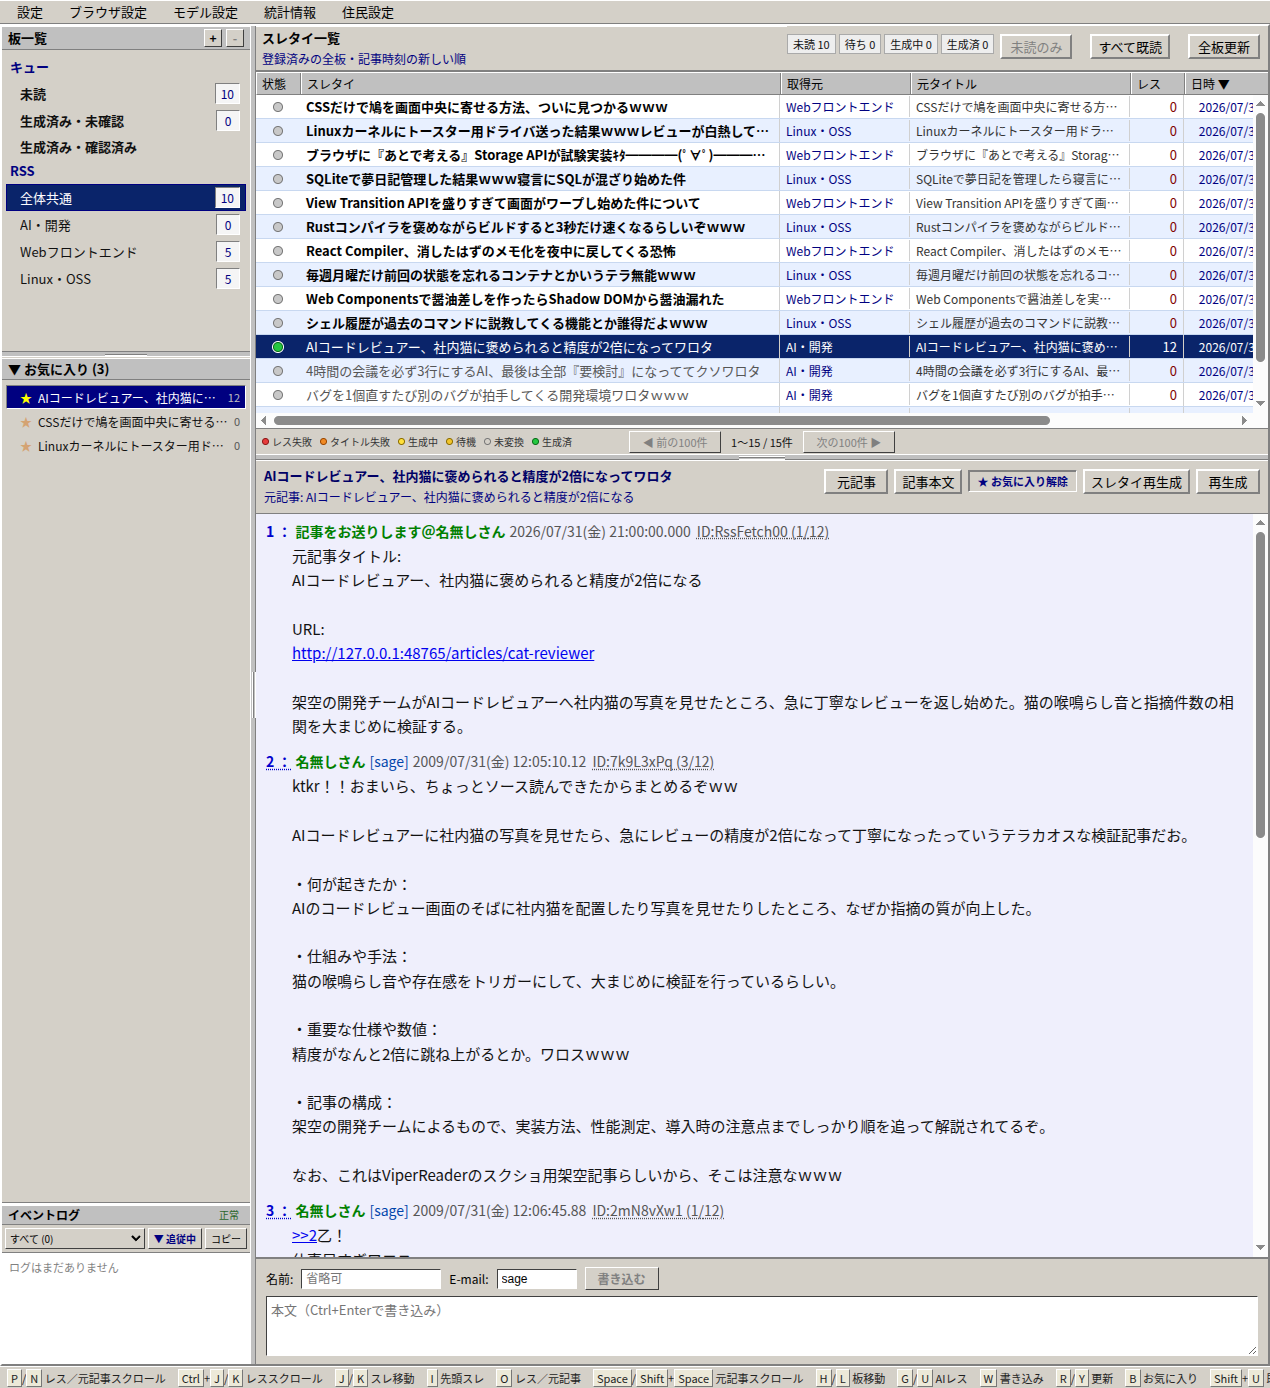
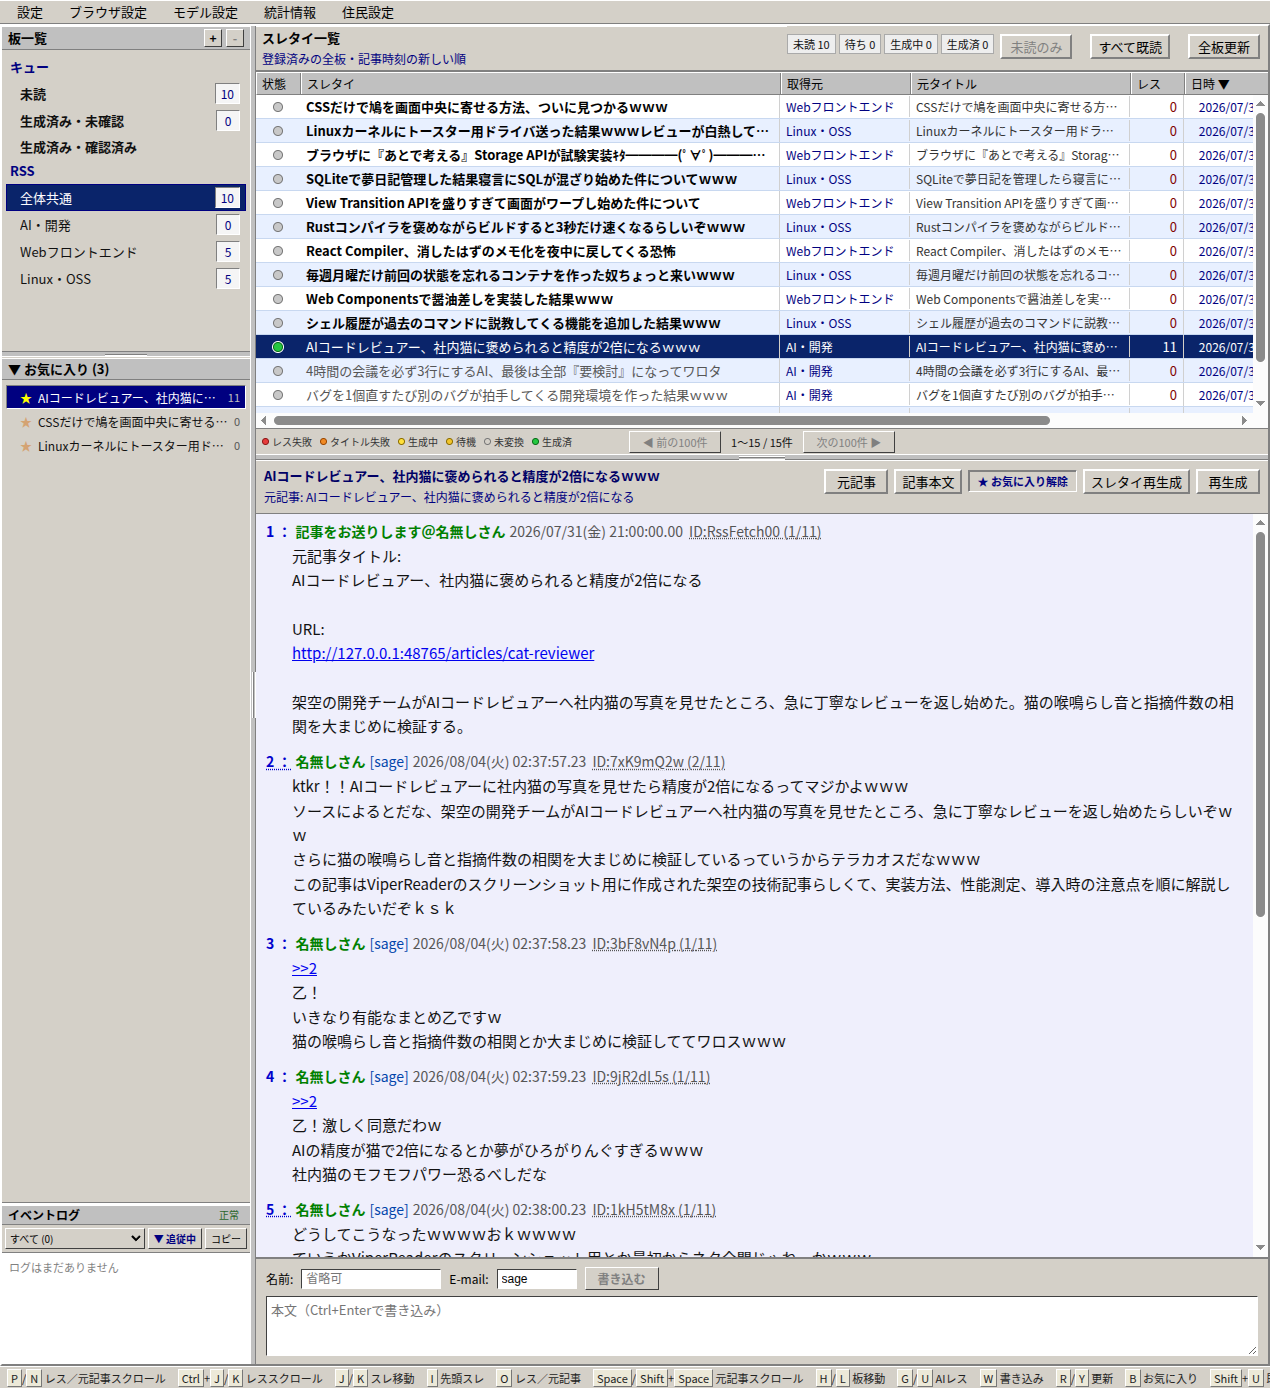
docs: 内蔵ブラウザの撮影用スクリーンショットを追加

diff --git a/src/main/main.ts b/src/main/main.ts
@@ -77,6 +77,13 @@ const screenshotPathArg = process.argv.find((arg) => arg.startsWith("--screensho
 const screenshotPath = screenshotPathArg
   ? path.resolve(screenshotPathArg.substring("--screenshot-path=".length))
   : null;
+const articleBrowserScreenshotPathArg = process.argv.find((arg) =>
+  arg.startsWith("--article-browser-screenshot-path=")
+);
+const articleBrowserScreenshotPath = articleBrowserScreenshotPathArg
+  ? path.resolve(articleBrowserScreenshotPathArg.substring("--article-browser-screenshot-path=".length))
+  : null;
+const isScreenshotMode = screenshotPath !== null || articleBrowserScreenshotPath !== null;
 const articleBrowserControllers = new Map<number, ArticleBrowserController>();
 let articleSession: Session | null = null;
 let articleBlocker: ArticleBlocker | null = null;
@@ -105,8 +112,8 @@ if (process.platform === "linux") {
 
 function createMainWindow(): void {
   const window = new BrowserWindow({
-    width: screenshotPath ? 1600 : 1180,
-    height: screenshotPath ? 1000 : 760,
+    width: isScreenshotMode ? 1600 : 1180,
+    height: isScreenshotMode ? 1000 : 760,
     minWidth: 920,
     minHeight: 600,
     title: appInfo.name,
@@ -123,7 +130,12 @@ function createMainWindow(): void {
   if (!articleSession || !articleBlocker) {
     throw new Error("Article browser services are not initialized.");
   }
-  const articleBrowser = new ArticleBrowserController(window, articleSession, articleBlocker);
+  const articleBrowser = new ArticleBrowserController(
+    window,
+    articleSession,
+    articleBlocker,
+    articleBrowserScreenshotPath !== null
+  );
   const rendererWebContentsId = window.webContents.id;
   articleBrowserControllers.set(rendererWebContentsId, articleBrowser);
   window.once("close", () => {
@@ -148,7 +160,7 @@ function createMainWindow(): void {
   });
 
   void window.loadURL(rendererEntryUrl);
-  if (screenshotPath) {
+  if (isScreenshotMode) {
     window.webContents.once("did-finish-load", () => {
       setTimeout(() => {
         void window.webContents.executeJavaScript(`
@@ -157,10 +169,36 @@ function createMainWindow(): void {
             const generated = rows.find((row) => Number(row.querySelector('.thread-count')?.textContent ?? 0) > 0);
             (generated ?? rows[0])?.click();
           })();
-        `).then(() => new Promise((resolve) => setTimeout(resolve, 2500)))
-          .then(() => window.webContents.capturePage())
-          .then(async (image) => {
-            await writeFile(screenshotPath, image.toPNG());
+        `).then(() => delay(2500))
+          .then(async () => {
+            if (screenshotPath) {
+              const image = await window.capturePage();
+              await writeFile(screenshotPath, image.toPNG());
+            }
+            if (articleBrowserScreenshotPath) {
+              await window.webContents.executeJavaScript(`
+                (() => {
+                  const buttons = [...document.querySelectorAll('button')];
+                  buttons.find((button) => button.textContent?.trim() === '元記事')?.click();
+                })();
+              `);
+              await waitForArticleBrowser(articleBrowser);
+              const articleImage = await articleBrowser.capturePageForScreenshot();
+              await window.webContents.executeJavaScript(`
+                (() => {
+                  const viewport = document.querySelector('.article-browser-viewport');
+                  if (!viewport) throw new Error('内蔵ブラウザの表示領域が見つかりません。');
+                  const image = document.createElement('img');
+                  image.src = ${JSON.stringify(articleImage.toDataURL())};
+                  image.alt = '';
+                  image.style.cssText = 'display:block;width:100%;height:100%;object-fit:cover;object-position:top left';
+                  viewport.replaceChildren(image);
+                })();
+              `);
+              await delay(100);
+              const image = await window.capturePage();
+              await writeFile(articleBrowserScreenshotPath, image.toPNG());
+            }
             app.quit();
           }).catch((error) => {
             console.error("スクリーンショットの保存に失敗しました:", error);
@@ -361,7 +399,7 @@ ipcMain.handle("shell:open-external", async (_event, url: string) => {
 
 void app.whenReady().then(() => {
   Menu.setApplicationMenu(null);
-  initializeRepository(screenshotPath === null);
+  initializeRepository(!isScreenshotMode);
   articleSession = session.fromPartition("viper-reader-articles", { cache: false });
   articleSession.setUserAgent(ARTICLE_BROWSER_USER_AGENT);
   articleSession.setPermissionCheckHandler(() => false);
@@ -379,6 +417,23 @@ void app.whenReady().then(() => {
     }
   });
 });
+
+function delay(milliseconds: number): Promise<void> {
+  return new Promise((resolve) => setTimeout(resolve, milliseconds));
+}
+
+async function waitForArticleBrowser(controller: ArticleBrowserController): Promise<void> {
+  const timeoutAt = Date.now() + 10_000;
+  while (Date.now() < timeoutAt) {
+    const state = controller.getState();
+    if (state.threadId && !state.isLoading && !state.error) {
+      await delay(500);
+      return;
+    }
+    await delay(100);
+  }
+  throw new Error("内蔵ブラウザの読み込みがタイムアウトしました。");
+}
 
 function getArticleBrowserController(event: IpcMainInvokeEvent): ArticleBrowserController {
   const controller = articleBrowserControllers.get(event.sender.id);

diff --git a/src/main/browser/articleBrowserController.ts b/src/main/browser/articleBrowserController.ts
@@ -1,5 +1,5 @@
 import { BrowserWindow, Menu, WebContentsView, shell } from "electron";
-import type { Rectangle, Session } from "electron";
+import type { NativeImage, Rectangle, Session } from "electron";
 import type {
   ArticleBrowserBounds,
   ArticleBrowserState,
@@ -29,7 +29,8 @@ export class ArticleBrowserController {
   constructor(
     private readonly owner: BrowserWindow,
     private readonly articleSession: Session,
-    private readonly blocker: ArticleBlocker
+    private readonly blocker: ArticleBlocker,
+    private readonly screenshotMode = false
   ) {
     this.state = { ...emptyState, blockerStatus: blocker.getStatus() };
     blocker.on("status-changed", () => {
@@ -49,7 +50,7 @@ export class ArticleBrowserController {
 
   show(request: ShowArticleBrowserRequest): ArticleBrowserState {
     const bounds = clampBounds(request.bounds, this.owner.getContentBounds());
-    const safeUrl = parseInternalArticleUrl(request.url);
+    const safeUrl = parseInternalArticleUrl(request.url, this.screenshotMode);
     const isSameThread = this.state.threadId === request.threadId;
     this.isVisible = true;
     this.state = {
@@ -83,7 +84,7 @@ export class ArticleBrowserController {
       return this.state;
     }
 
-    if (!this.blocker.isReady() && !request.allowUnprotected) {
+    if (!this.screenshotMode && !this.blocker.isReady() && !request.allowUnprotected) {
       this.pendingRequest = { ...request, url: safeUrl.toString(), bounds };
       this.hideNativeView();
       this.state = {
@@ -176,6 +177,15 @@ export class ArticleBrowserController {
 
   getState(): ArticleBrowserState {
     return this.state;
+  }
+
+  async capturePageForScreenshot(): Promise<NativeImage> {
+    if (!this.screenshotMode || !this.view || !this.isVisible || this.state.error) {
+      throw new Error("撮影できる内蔵ブラウザ画面がありません。");
+    }
+    const image = await this.view.webContents.capturePage();
+    this.hideNativeView();
+    return image;
   }
 
   destroy(): void {
@@ -281,21 +291,21 @@ export class ArticleBrowserController {
       }
     });
     contents.setWindowOpenHandler((details) => {
-      const safeUrl = parseInternalArticleUrl(details.url);
+      const safeUrl = parseInternalArticleUrl(details.url, this.screenshotMode);
       if (safeUrl && (details.disposition === "foreground-tab" || details.disposition === "background-tab" || details.disposition === "default")) {
         setImmediate(() => void contents.loadURL(safeUrl.toString()));
       }
       return { action: "deny" };
     });
     contents.on("will-navigate", (event, url) => {
-      if (!parseInternalArticleUrl(url)) {
+      if (!parseInternalArticleUrl(url, this.screenshotMode)) {
         event.preventDefault();
         this.state = { ...this.state, error: "HTTPS以外のリンクはアプリ内で開けません。" };
         this.sendState();
       }
     });
     contents.on("will-redirect", (event, url) => {
-      if (!parseInternalArticleUrl(url)) {
+      if (!parseInternalArticleUrl(url, this.screenshotMode)) {
         event.preventDefault();
         this.state = { ...this.state, error: "安全でないリダイレクトを停止しました。" };
         this.hideNativeView();
@@ -415,10 +425,17 @@ export class ArticleBrowserController {
   }
 }
 
-function parseInternalArticleUrl(value: string): URL | null {
+function parseInternalArticleUrl(value: string, allowLoopbackHttp = false): URL | null {
   try {
     const url = new URL(value);
-    return url.protocol === "https:" ? url : null;
+    if (url.protocol === "https:") {
+      return url;
+    }
+    return allowLoopbackHttp
+      && url.protocol === "http:"
+      && (url.hostname === "127.0.0.1" || url.hostname === "localhost" || url.hostname === "[::1]")
+      ? url
+      : null;
   } catch {
     return null;
   }
